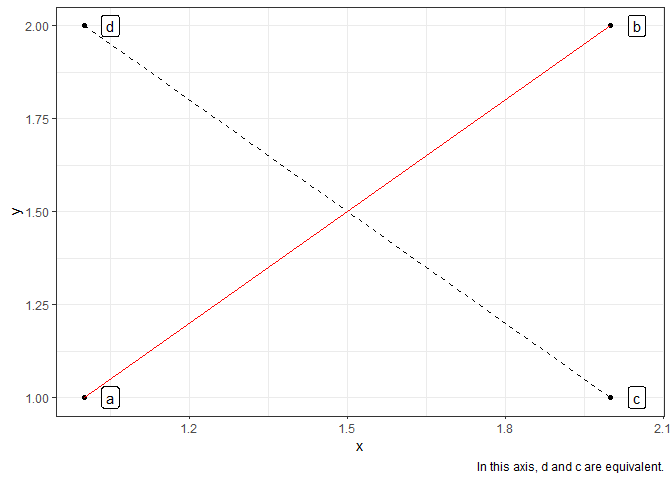
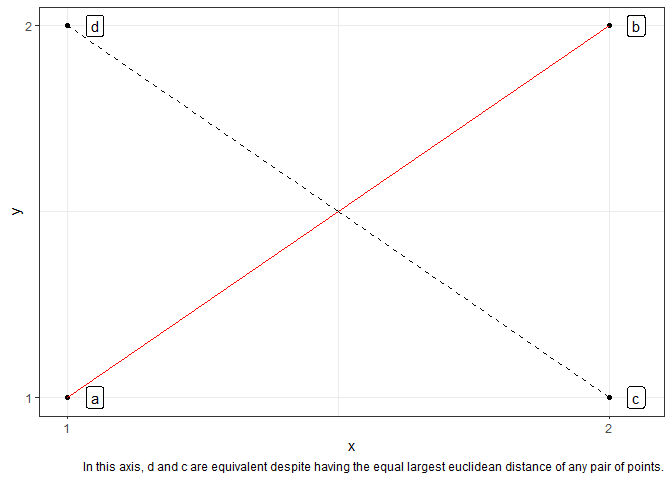
Include representation of judgement axis as representation of x & y
also note euclidean distances in primary axis plot 2

diff --git a/README.md b/README.md
@@ -38,7 +38,9 @@ df <-  tibble(obs = letters[1:4],
 p <-  ggplot(df, aes(x,y)) + 
   geom_point() + 
   geom_label(aes(label = obs), nudge_x = .05) +
-  theme_bw()
+  theme_bw() + 
+  scale_x_continuous(breaks = 1:2) +
+  scale_y_continuous(breaks = 1:2)
 
 p + geom_line(aes(y = flat), colour = "red") + 
   geom_linerange(aes(ymin = y, ymax = flat), linetype = "dashed") + labs(caption = "In this axis, a and d, are equivalent, as are  b and c.")
@@ -48,7 +50,36 @@ p + geom_line(aes(y = flat), colour = "red") +
 
 ``` r
 p + geom_line(aes(y = pos), colour = "red") + 
-  geom_segment(aes(y = y, yend = posy, x=x, xend = posx), linetype = "dashed") + labs(caption = "In this axis, d and c are equivalent.")
+  geom_segment(aes(y = y, yend = posy, x=x, xend = posx), linetype = "dashed") + labs(caption = "In this axis, d and c are equivalent despite having the equal largest euclidean distance of any pair of points.")
 ```
 
 ![](readme_files/figure-gfm/primary-axis-2.png)<!-- -->
+
+A stupidly late realisation is that this can be represented by the
+variation in weights of the underlying dimensions on the dimension of
+judgement. For the two scenarios presented above.
+
+``` r
+library(igraph)
+
+g1 <- graph.formula("x" -+ "judgement",
+                    "y" -+ "judgement",
+                      simplify = TRUE)
+E(g1)$label <- c(1, 0) 
+g1$layout <- layout_in_circle(g1)
+
+plot(g1, size = 90)
+```
+
+![](readme_files/figure-gfm/dags-1.png)<!-- -->
+
+``` r
+g2 <- graph.formula("x" -+ "judgement",
+                    "y" -+ "judgement",
+                      simplify = TRUE)
+E(g2)$label <- c(1, 1) 
+g2$layout <- layout_in_circle(g2)
+plot(g2, size = 90)
+```
+
+![](readme_files/figure-gfm/dags-2.png)<!-- -->
